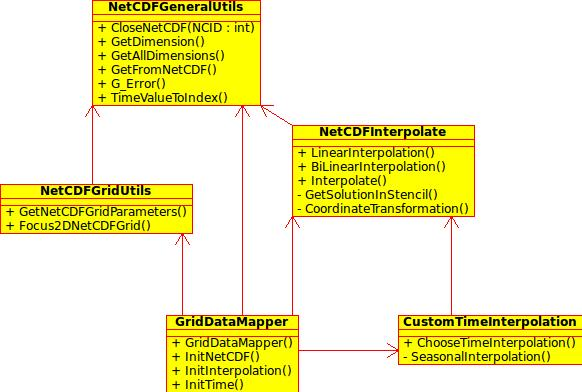
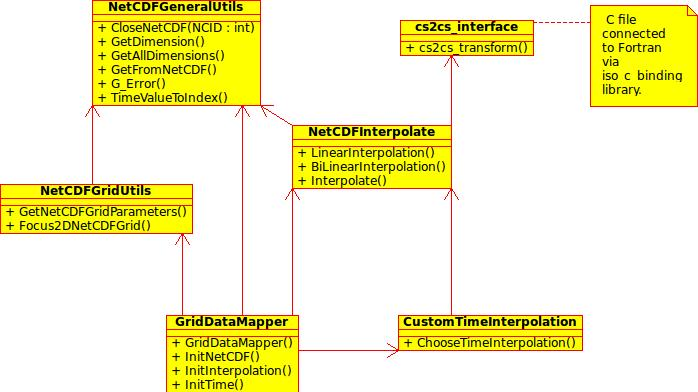
Cleaned code, added cylindrical transformation, updated documentation. Lacks in testing at the moment.
git-svn-id: svn://svn.code.sf.net/p/elmerfem/code/trunk@5247 04224531-1f84-46d8-96ce-875b9e37dce3

diff --git a/misc/netcdf/cs2cs_interface.c b/misc/netcdf/cs2cs_interface.c
@@ -1,4 +1,4 @@
-/***** Vili Forsell, 23.6.2011
+/***** Vili Forsell, 28.6.2011
 * Function for interfacing with cs2cs (i.e. PROJ.4)
 * See "/user/include/proj_api.h" for cs2cs application interface
 */
@@ -15,46 +15,44 @@ enum bool {
 	};
 typedef enum bool bool;
 
-/* Function: main()
-@param argc The number of given command line arguments
-@param argv The given command line arguments (including the name of the program call)
-@return EXIT_SUCCESS, if all went well
+/* Function: cs2cs_transform()
+*** Transforms the given input from a coordinate system to another with cs2cs
+@param coord The input (Elmer) coordinates to be transformed
+@param hasZ If 0, the coord parameter contains 3rd dimension, otherwise 2D
+@param isRad If 0, then uses radians during transformation, otherwise degrees
+@param elmer_proj The cs2cs parameter string for Elmer grid coordinate system (from)
+@param netcdf_proj The cs2cs parameter string for NetCDF grid coordinate system (to)
+@param res The resulting (NetCDF) data values for further indexing
 */
 void cs2cs_transform( double coord[3], int hasZ, int isRad, char elmer_proj[], char netcdf_proj[], double res[3] ) {
 	projPJ pj_elmer = NULL, pj_netcdf = NULL; // Coordinate system definitions
 	bool hasErrors = false;
-	int transf_val = 0; // For return value from the transformation predefined by cs2cs as 0, if no errors and as error code otherwise
-
-	printf("(%.2f, %.2f, %.2f) ; hasZ = %d ; isRad = %d \nelmer_proj = %s\nnetcdf_proj = %s\n",coord[0],coord[1],coord[2],hasZ,isRad,elmer_proj,netcdf_proj);
-
-        fprintf(stdout,"\n\"%s\"\n",elmer_proj);
-        fprintf(stdout,"\n\"%s\"\n",netcdf_proj);
-
-	// Input information
-//	double coord[3]; // Contains the coordinates
-//	coord[0] = -16;
-//	coord[1] = 20.25;
-//	coord[2] = 0;
+	int transf_val = 0; // For return value from the transformation predefined by cs2cs as 0, if no errors, and as error code otherwise
 	bool isZset = true; // True, if z coordinate is used
-	if ( hasZ == 0 ) isZset = false;
 	bool isInputRad = false; // True, if the given input is in radians
-	if ( isRad != 0 ) isRad = true;
 
-//	char elmer_proj[] = "+proj=latlong +ellps=clrk66"; // "+proj=stere +lat_ts=71N +lat_0=90 +lon_0=96W +x_0=0 +y_0=0 +ellps=WGS86" // Coordinate system parameters
-//	char netcdf_proj[] = "+proj=merc +ellps=clrk66 +lat_ts=33";
-
-	// Set constant
+	// Set constants
 	long point_count = 1; // Number of processed points (x,y,z can be arrays)
 	int point_offset = 1; // Step size, if multiple points (f.ex. every second) processed
 
+	// Input information
+	if ( hasZ == 0 ) isZset = false;
+	if ( isRad != 0 ) isRad = true;
+
+/* DEBUG PRINTOUTS
+	printf("(%.2f, %.2f, %.2f) ; hasZ = %d ; isRad = %d\n",coord[0],coord[1],coord[2],hasZ,isRad);
+	fprintf(stdout,"\n\"%s\"\n",elmer_proj);
+	fprintf(stdout,"\n\"%s\"\n",netcdf_proj);
+*/
+
 	// Initializes the coordinate systems for the read Elmer data point and the NetCDF data
 	pj_elmer = pj_init_plus(elmer_proj);
-	if ( pj_elmer == NULL ){
+	if ( pj_elmer == NULL ) {
 		printf("%s Failed to initialize Elmer coordinate system with parameters: %s!\n", MSG_HEADER, elmer_proj);
 		hasErrors = true;
 	}
 	pj_netcdf = pj_init_plus(netcdf_proj);
-	if ( pj_netcdf == NULL ){
+	if ( pj_netcdf == NULL ) {
 		printf("%s Failed to initialize NetCDF coordinate system with parameters: %s!\n", MSG_HEADER, netcdf_proj);
 		hasErrors = true;
 	}
@@ -67,7 +65,7 @@ void cs2cs_transform( double coord[3], int hasZ, int isRad, char elmer_proj[], c
 		coord[2] *= DEG_TO_RAD;
 	}
 
-	// Performs the transformation
+	// Performs the transformation (according to input dimensions)
 	if ( hasErrors != true ) {
 		if (isZset) transf_val = pj_transform(elmer_proj,netcdf_proj,point_count,point_offset,&coord[0],&coord[1],&coord[2]);
 		else transf_val = pj_transform(elmer_proj,netcdf_proj,point_count,point_offset,&coord[0],&coord[1],NULL);
@@ -77,18 +75,19 @@ void cs2cs_transform( double coord[3], int hasZ, int isRad, char elmer_proj[], c
 		}
 	}
 
-	// Saves output
+	// Saves output, if no errors
 	if ( hasErrors == true ) {
-          res[0] = 0;
-          res[1] = 0;
-          res[2] = 0;
+		res[0] = 0;
+		res[1] = 0;
+		res[2] = 0;
+		abort(); // Immediate abort, since this is likely not intended and affects all results
         } else {
-          res[0] = coord[0];
-          res[1] = coord[1];
-          res[2] = coord[2];
+		res[0] = coord[0];
+		res[1] = coord[1];
+		res[2] = coord[2];
         }
   
-	printf("Done with (%.2f, %.2f)\n", coord[0], coord[1], transf_val);
-
-//	return EXIT_SUCCESS;
+/* DEBUG PRINTOUTS
+	printf("Done with (%.2f, %.2f)\n\n", coord[0], coord[1]);
+*/
 }
